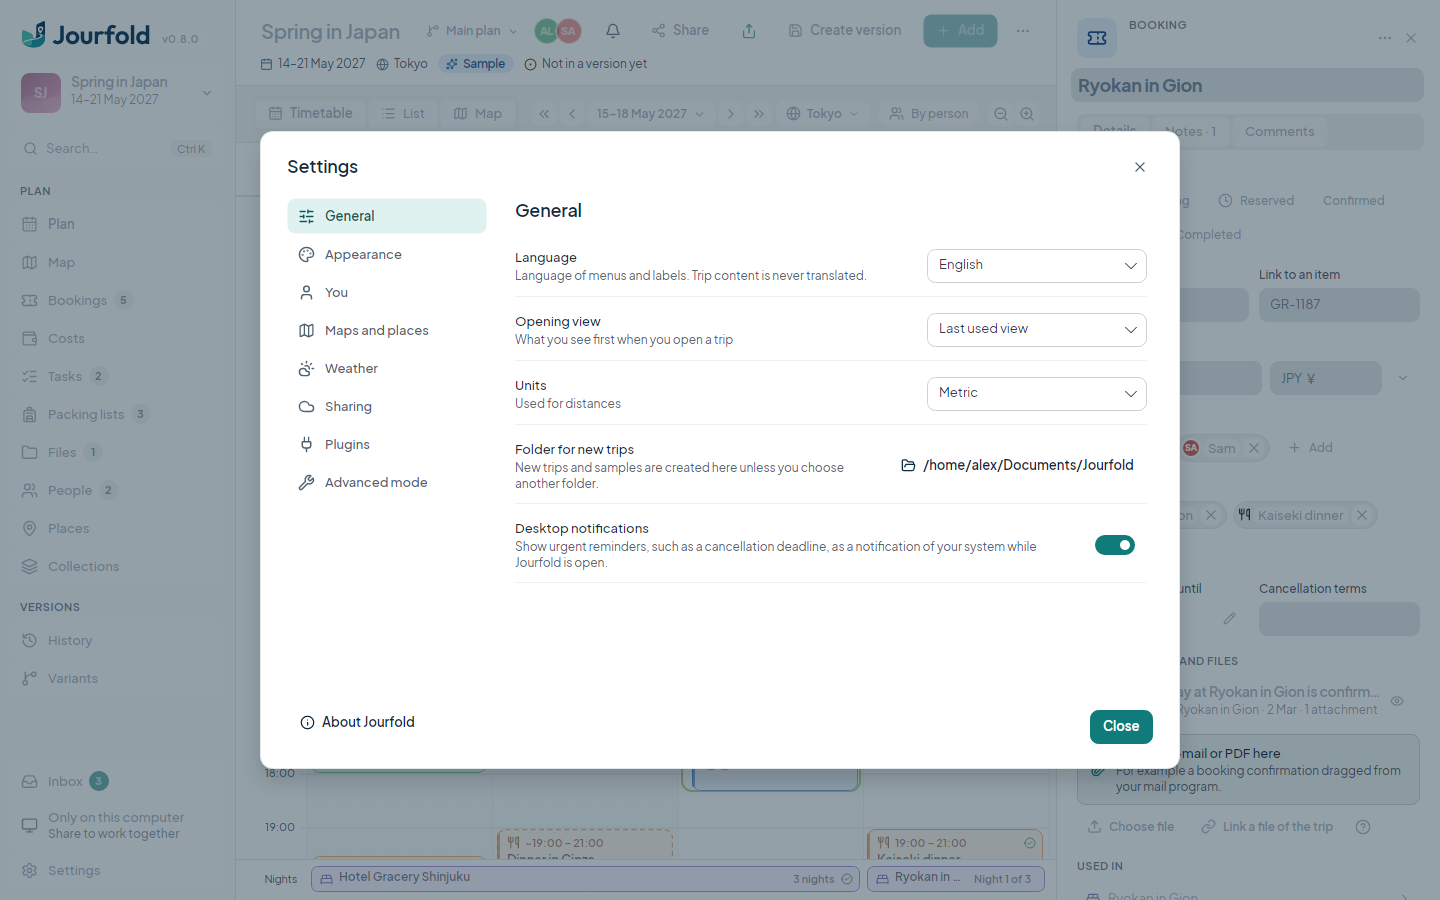
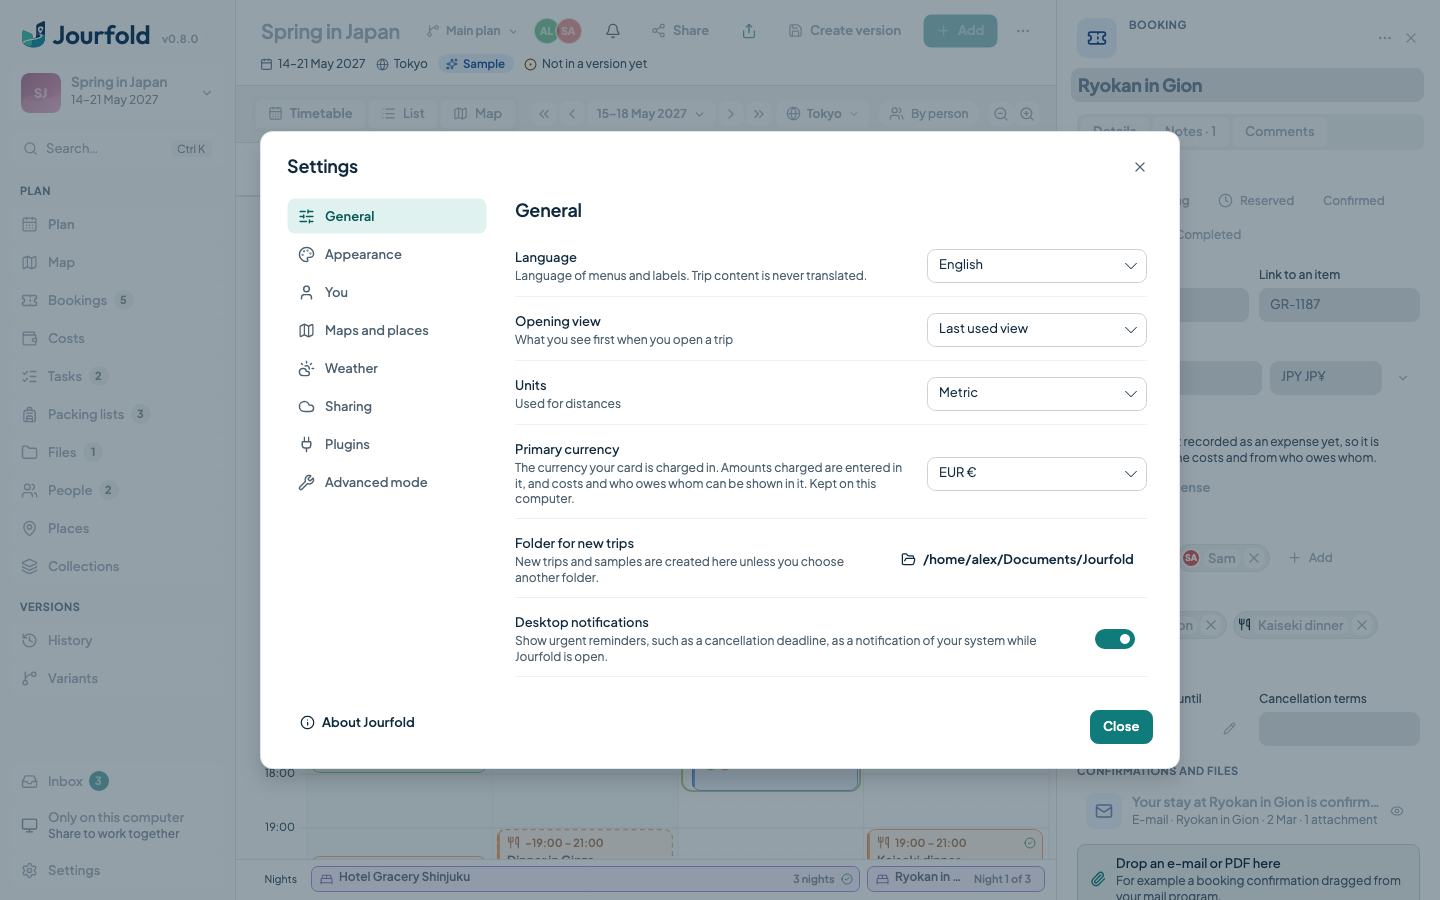
Primary currency in Settings, and budgets for a category, person or collection
Settings, General, choose the primary currency: the one the cards are
charged in, used for amounts charged and for costs and who owes whom.
It is the same setting as the chooser on the Costs page.

A budget's details set what it covers: the whole trip, a category, a
person's part or a collection. The Costs page lists every budget with
what is spent, still estimated and left, in the budget's currency, and
names amounts that could not be converted. The settings screenshot is
refreshed.

diff --git a/src/Jourfold.Desktop/Views/ExpenseViews.cs b/src/Jourfold.Desktop/Views/ExpenseViews.cs
@@ -370,6 +370,90 @@ public static class ExpenseViews
         return Ui.Card(Ui.V(12, heading, list), 18);
     }
 
+    private static readonly (string Scope, string Icon)[] BudgetScopes = [(Budgets.Trip, "luggage"), (Budgets.Category, "tag"), (Budgets.Participant, "user"), (Budgets.Collection, "layers")];
+
+    /// <summary>What a budget covers, in words, such as "Category · Food" or "Person · Ana".</summary>
+    public static string BudgetFor(Localization s, TripSnapshot trip, BudgetStatus status) => status.Scope switch
+    {
+        Budgets.Trip => s["BudgetWholeTrip"],
+        Budgets.Category => s["category"] + " · " + (status.Target is { } c ? CategoryName(s, c) : s["BudgetChooseTarget"]),
+        _ => s[status.Scope] + " · " + (Guid.TryParse(status.Target, out var id) && trip.Find(id) is { } e ? e.Title : s["BudgetChooseTarget"])
+    };
+
+    /// <summary>
+    /// What a budget covers, as chips: the whole trip, a category, a person or a collection, and then which one.
+    /// </summary>
+    public static Control BudgetScopeEditor(MainWindow w, Entity budget)
+    {
+        var m = w.Model; var s = m.Strings; var trip = m.Trip!;
+        var scope = Budgets.ScopeOf(budget); var target = Budgets.TargetOf(budget);
+        var scopes = new WrapPanel { ItemSpacing = 6, LineSpacing = 6 };
+        foreach (var (option, icon) in BudgetScopes)
+        {
+            var chip = Ui.Choice(s[option], icon, option == scope, "chip");
+            chip.Click += (_, _) => { if (option != scope) _ = m.SetBudgetScopeAsync(budget.Id, option); };
+            scopes.Children.Add(chip);
+        }
+        AutomationProperties.SetName(scopes, s["BudgetScope"]);
+        var panel = Ui.V(8, scopes);
+        IEnumerable<(string Id, string Label, string Icon)> targets = scope switch
+        {
+            Budgets.Category => ExpenseCategories.Standard.Concat(ExpenseCategories.Custom(trip)).Select(c => (c, CategoryName(s, c), CategoryIcon(c))),
+            Budgets.Participant => TripPeople.Travelers(trip).Select(p => (p.Id.ToString(), p.Title, "user")),
+            Budgets.Collection => trip.Entities.Values.Where(e => e.Type == "collection" && !PackingLists.IsList(e)).OrderBy(e => e.Title, StringComparer.CurrentCulture).Select(c => (c.Id.ToString(), c.Title, "layers")),
+            _ => []
+        };
+        var choices = new WrapPanel { ItemSpacing = 6, LineSpacing = 6 };
+        foreach (var (id, label, icon) in targets)
+        {
+            var chip = Ui.Choice(label, icon, string.Equals(id, target, StringComparison.CurrentCultureIgnoreCase), "chip");
+            chip.Click += (_, _) => _ = m.SetBudgetScopeAsync(budget.Id, scope, id);
+            choices.Children.Add(chip);
+        }
+        if (choices.Children.Count > 0) { AutomationProperties.SetName(choices, s["BudgetTarget"]); panel.Children.Add(choices); }
+        else if (scope == Budgets.Collection) panel.Children.Add(Notice("info", "Text.Subtle", s["BudgetNoCollections"]));
+        if (Budgets.Status(trip, budget, m.EstimateRates) is { } status) panel.Children.Add(BudgetLine(s, trip, status, 300));
+        return panel;
+    }
+
+    /// <summary>One budget: what it covers, a bar, and what is spent, planned and left, said in words.</summary>
+    private static Control BudgetLine(Localization s, TripSnapshot trip, BudgetStatus b, double? barWidth = null)
+    {
+        var currency = b.Amount.Currency;
+        string Money(decimal x) => (b.Approximate ? "≈ " : "") + Formats.Money(x, currency);
+        var ratio = b.Amount.Amount <= 0 ? 1 : (double)Math.Min(1m, b.Used / b.Amount.Amount);
+        var over = b.Left < 0;
+        var bar = new Grid { ColumnDefinitions = new ColumnDefinitions($"{ratio.ToString(System.Globalization.CultureInfo.InvariantCulture)}*,{(1 - ratio).ToString(System.Globalization.CultureInfo.InvariantCulture)}*"), Height = 8 };
+        if (barWidth is { } width) { bar.Width = width; bar.HorizontalAlignment = HorizontalAlignment.Left; }
+        bar.Children.Add(new Border { CornerRadius = new CornerRadius(4) }.Res(Border.BackgroundProperty, "Bg.Muted").Col(0, 2));
+        bar.Children.Add(new Border { CornerRadius = new CornerRadius(4) }.Res(Border.BackgroundProperty, over ? "Danger" : ratio > 0.85 ? "Warning" : "Accent"));
+        AutomationProperties.SetName(bar, string.Format(s["BudgetUsed"], Money(b.Used), Formats.Money(b.Amount.Amount, currency)));
+        var line = Ui.V(4, bar, Ui.H(5, Ui.Icon(over ? "triangle-alert" : "circle-check", 13, over ? "Danger" : "Success"),
+            Ui.Text(string.Format(s["BudgetUsed"], Money(b.Used), Formats.Money(b.Amount.Amount, currency)) + " · " + (over ? string.Format(s["BudgetOver"], Money(-b.Left)) : string.Format(s["BudgetLeft"], Money(b.Left))), "caption")));
+        if (b.Planned > 0) line.Children.Add(Ui.Text(string.Format(s["BudgetPlanned"], Money(b.Planned)), "caption"));
+        if (b.NotIncluded.Count > 0) line.Children.Add(Notice("info", "Text.Subtle", string.Format(s["BudgetNotIncluded"], string.Join(" + ", b.NotIncluded.Select(x => Formats.Money(x.Amount, x.Currency))))));
+        return line;
+    }
+
+    /// <summary>On the Costs page: every budget with what it covers and where it stands. Null without budgets.</summary>
+    public static Control? BudgetsCard(MainWindow w)
+    {
+        var m = w.Model; var s = m.Strings; var trip = m.Trip!;
+        var budgets = Budgets.All(trip, m.EstimateRates);
+        if (budgets.Count == 0) return null;
+        var rows = Ui.V(14);
+        foreach (var b in budgets)
+        {
+            var open = new Button { Content = Ui.Columns("Auto,*", Ui.Icon(BudgetScopes.First(x => x.Scope == b.Scope).Icon, 14, "Text.Muted").Margin(0, 2, 8, 0).Also(i => i.VerticalAlignment = VerticalAlignment.Top), Ui.V(1, Ui.Line(b.Budget.Title, "strong"), Ui.Line(BudgetFor(s, trip, b), "caption"))) }.Classed("row");
+            AutomationProperties.SetName(open, b.Budget.Title);
+            var budget = b.Budget; open.Click += (_, _) => m.Follow(budget);
+            rows.Children.Add(Ui.V(6, open, BudgetLine(s, trip, b).Margin(8, 0)));
+        }
+        var body = Ui.V(12, Ui.Text(s["Budgets"], "h3"), rows);
+        if (budgets.Any(b => b.Approximate)) body.Children.Add(Notice("info", "Text.Subtle", s["EstimatedWithRates"]));
+        return Ui.Card(body, 18);
+    }
+
     private static Control Notice(string icon, string brush, string text) =>
         Ui.Columns("Auto,*", Ui.Icon(icon, 13, brush).Margin(0, 2, 6, 0).Also(i => i.VerticalAlignment = VerticalAlignment.Top), Ui.Text(text, "caption").Also(t => t.TextWrapping = TextWrapping.Wrap));
 }

diff --git a/tests/Jourfold.Tests/ExpenseSplitTests.cs b/tests/Jourfold.Tests/ExpenseSplitTests.cs
@@ -265,6 +265,60 @@ public sealed class ExpenseSplitTests : IDisposable
         finally { w.Close(); }
     }
 
+    [AvaloniaTheory]
+    [InlineData("en", "Primary currency")]
+    [InlineData("de", "Primäre Währung")]
+    public async Task ThePrimaryCurrencyIsChosenInSettings(string language, string label)
+    {
+        var w = await Window(language, "Light"); var m = w.Model;
+        try
+        {
+            m.HomeCurrency = "EUR";
+            var settings = ((Dialogs)m.Interaction).SettingsAsync(m); Probe.Layout();
+            var sheet = Probe.Sheet(w);
+            Assert.Contains(label, Texts(sheet));
+            // The only currency choice on the General page; choosing a currency there is the primary currency at once.
+            var primary = Probe.All<ComboBox>(sheet).Single(c => AutomationProperties.GetName(c) == label);
+            primary.SelectedItem = Editors.Currencies.Single(c => c.Id == "CHF"); Probe.Layout();
+            Assert.Equal("CHF", m.HomeCurrency);
+            Assert.Equal("CHF", m.SettleCurrency);
+        }
+        finally { w.Close(); }
+    }
+
+    [AvaloniaTheory]
+    [InlineData("en", "Category", "Food", "Eating out", "of", "left")]
+    [InlineData("de", "Kategorie", "Essen", "Eating out", "von", "übrig")]
+    public async Task ABudgetCoversACategoryAndShowsWhatIsLeft(string language, string category, string food, string title, string of, string left)
+    {
+        var w = await Window(language, "Light"); var m = w.Model;
+        try
+        {
+            var dinner = m.Trip!.Entities.Values.Single(e => e.Title == "Dinner at the lake");
+            await m.ChangeExpenseAsync(dinner.Id, (t, e) => ExpenseCategories.With(t, e, "food"));
+            var budget = Entity.Create("budget", title); budget.Data["amount"] = new System.Text.Json.Nodes.JsonObject { ["value"] = "150.00", ["currency"] = "EUR" };
+            await m.Workspace!.EditAsync(budget);
+            m.Navigate("Costs"); m.Selected = m.Trip!.Find(budget.Id); Probe.ShowDetails(w);
+            var inspector = w.FindControl<Control>("InspectorHost")!;
+            await Probe.Until(() => Probe.All<ChoiceButton>(inspector).Any(c => AutomationProperties.GetName(c) == category));
+            Probe.All<ChoiceButton>(inspector).Single(c => AutomationProperties.GetName(c) == category).RaiseEvent(new Avalonia.Interactivity.RoutedEventArgs(Button.ClickEvent));
+            await Probe.Until(() => Budgets.ScopeOf(m.Trip!.Find(budget.Id)!) == Budgets.Category);
+            Probe.ShowDetails(w);
+            await Probe.Until(() => Probe.All<ChoiceButton>(inspector).Any(c => AutomationProperties.GetName(c) == food));
+            Probe.All<ChoiceButton>(inspector).Single(c => AutomationProperties.GetName(c) == food).RaiseEvent(new Avalonia.Interactivity.RoutedEventArgs(Button.ClickEvent));
+            await Probe.Until(() => Budgets.TargetOf(m.Trip!.Find(budget.Id)!) == "food");
+            var status = Budgets.Status(m.Trip!, m.Trip!.Find(budget.Id)!)!;
+            Assert.Equal((90m, 60m), (status.Spent, status.Left));
+            // The whole trip's EUR budget is not this one.
+            Assert.Equal(0m, TripSummaries.Costs(m.Trip!).Single(c => c.Currency == "EUR").Budget);
+            m.Navigate("Plan"); m.Navigate("Costs");
+            var texts = Texts(w).ToArray();
+            Assert.Contains(texts, t => t.Contains(" " + of + " ", StringComparison.Ordinal) && t.Contains(left, StringComparison.Ordinal) && t.Contains("150", StringComparison.Ordinal));
+            Assert.Contains(Probe.All<Button>(w), b => AutomationProperties.GetName(b) == title);
+        }
+        finally { w.Close(); }
+    }
+
     private async Task<MainWindow> Window(string language, string theme)
     {
         var (path, p) = await Trip();

diff --git a/src/Jourfold.Desktop/Dialogs/Dialogs.Settings.cs b/src/Jourfold.Desktop/Dialogs/Dialogs.Settings.cs
@@ -114,6 +114,13 @@ public sealed partial class Dialogs
                     Row(s["Language"], s["LanguageHint"], Option("Language", model.Strings.Language, "en", "de"));
                     Row(s["OpenView"], s["OpenViewHint"], Option("OpenView", "Remember", "Remember", "Plan", "Map", "List"));
                     Row(s["Units"], s["UnitsHint"], Option("Units", "Metric", "Metric", "Imperial"));
+                    // The same setting as the chooser in the Costs page's total; it belongs to the person and their card, not to a trip.
+                    // A drop-down like the other settings; typing the code's first letters picks it with the keyboard.
+                    var currencies = Editors.Currencies.ToArray();
+                    var primary = new ComboBox { ItemsSource = currencies, SelectedItem = currencies.FirstOrDefault(c => c.Id == model.HomeCurrency), Width = 220, Tag = "HomeCurrency", MaxDropDownHeight = 320 };
+                    AutomationProperties.SetName(primary, s["HomeCurrency"]);
+                    primary.SelectionChanged += (_, _) => { if (primary.SelectedItem is Choice c && c.Id != model.HomeCurrency) model.HomeCurrency = c.Id; };
+                    Row(s["HomeCurrency"], s["HomeCurrencyHint"], primary);
                     var folder = Ui.Button(model.DefaultTripsFolder, "folder-open", "ghost"); folder.MaxWidth = 280; folder.Click += async (_, _) => { if (await FolderAsync(s["TripsFolder"]) is { } chosen) { model.Store.Set("trips.folder", chosen); Render(); } };
                     Row(s["TripsFolder"], s["TripsFolderHint"], folder);
                     Row(s["DesktopNotifications"], s["DesktopNotificationsHint"], Toggle(model.DesktopNotificationsEnabled, model.SetDesktopNotifications, s["DesktopNotifications"]));

diff --git a/src/Jourfold.Desktop/MainViewModel.Costs.cs b/src/Jourfold.Desktop/MainViewModel.Costs.cs
@@ -125,6 +125,14 @@ public partial class MainViewModel
         await Workspace.ApplyAsync(Expenses.SettleAll(Workspace.State.Trip, Today).Select(e => new TravelRepo.Repository.EntityEdit(e.Id, e)).ToArray());
     });
 
+    /// <summary>Sets what a budget covers: the whole trip, a category, a person's id or a collection's id, as an undoable step.</summary>
+    public Task SetBudgetScopeAsync(Guid budgetId, string scope, string? target = null) => RunEditAsync(async () =>
+    {
+        if (Workspace?.State.Trip is not { } trip || trip.Find(budgetId) is not { Type: "budget" } budget) return;
+        var changed = Budgets.WithScope(trip, budget, scope, target);
+        if (!System.Text.Json.Nodes.JsonNode.DeepEquals(changed.Data, budget.Data)) await Workspace.EditAsync(changed);
+    });
+
     /// <summary>Applies one of TravelRepo's expense edits to the saved expense as an undoable step.</summary>
     public Task ChangeExpenseAsync(Guid id, Func<TripSnapshot, Entity, Entity> change) => EditExpenseAsync(id, change);
 

diff --git a/src/Jourfold.Desktop/Views/InspectorView.cs b/src/Jourfold.Desktop/Views/InspectorView.cs
@@ -214,7 +214,7 @@ public static class InspectorView
                     Add(body, s["Files"], Confirmations(w, e));
                     if (ExpenseViews.Charged(w, e) is { } charged) body.Children.Add(Field(s["Charged"], charged));
                 }
-                else body.Children.Add(Field(s["BudgetScope"], Editors.Choice(w, e.Id, "scope", s["BudgetScope"], e.Data["scope"]?.ToString(), ["trip", "category", "participant", "collection"])));
+                else body.Children.Add(Field(s["BudgetScope"], ExpenseViews.BudgetScopeEditor(w, e)));
                 break;
             case "person": PersonDetails(w, e, body); break;
             case "collection": body.Children.Add(Field(s["Items"], Editors.References(w, e.Id, "items", s["Items"], null))); break;

diff --git a/src/Jourfold.Desktop/Views/CollectionViews.cs b/src/Jourfold.Desktop/Views/CollectionViews.cs
@@ -119,7 +119,7 @@ public static class CollectionViews
             list.Children.Add(Row(w, e, grid));
         }
         var note = Ui.H(6, Ui.Icon("info", 13, "Text.Subtle"), Ui.Text(s["NoAutoConversion"], "caption"));
-        return Page(w, s["Costs"], s["CostsHint"], Ui.V(20, tiles, ExpenseViews.WhoOwesWhom(w), ExpenseViews.MissingExpenses(w), ExpenseViews.ByCategory(w), ConverterCard(w), Ui.Card(list, 6), note), actions);
+        return Page(w, s["Costs"], s["CostsHint"], Ui.V(20, tiles, ExpenseViews.WhoOwesWhom(w), ExpenseViews.MissingExpenses(w), ExpenseViews.BudgetsCard(w), ExpenseViews.ByCategory(w), ConverterCard(w), Ui.Card(list, 6), note), actions);
     }
 
     /// <summary>

diff --git a/docs/user-guide.md b/docs/user-guide.md
@@ -69,7 +69,7 @@ The bell next to the people in the header counts reminders: free cancellation de
 
 ## Bookings, costs, tasks and files
 
-**Bookings** lists reservations with their reference (click the copy icon), price, travellers and status. Bookings and plans have a **Confirmations and files** section: drag a confirmation e-mail or PDF onto it, or choose a file. Thunderbird, eM Client and Apple Mail let you drag an e-mail directly; Gmail and Outlook on the web download it as an `.eml` file first, and classic Outlook can print it to PDF. The help button next to the area explains each. Click a confirmation to open it in Jourfold's document window, which stays open beside the plan. It shows PDFs page by page with zoom and search (Ctrl+F), and e-mails with sender, date, attachments and the message in its original layout; **Text** shows the plain text instead, and Jourfold remembers your choice. An attachment can be opened there or added to the trip next to the e-mail. Scripts, forms and frames in an e-mail are removed, and images from the internet are only loaded when you choose **Load images** for that e-mail, because loading them tells the sender that you opened it. Links ask before they open and show where they really go. An e-mail laid out wider than the window is shrunk to fit. **Costs** totals expenses per currency and compares them with budgets. Amounts stay in their own currency. An expense is divided equally among all travellers unless you change its **Split**, right when you add it or later in the details: equally among some people, by amounts, by shares (such as 2 for a couple) or by percent. If the parts do not add up, the details say how much is left and the list shows **Check split**. **Paying back** in the details lists who owes whom for that expense; tick a line once it is paid back. **Who owes whom** on the Costs page shows each person's balance per currency and the fewest payments that settle everything. **Pay back…** opens the pay function: choose a person and the open items to settle now, see what that comes to after what two people owe each other is set off, and mark them as paid in one step. **Mark all as paid** is for when everyone has made the payments shown. Estimates are divided only once they are paid. For a payment in another currency, enter under **Charged** in its details what the card statement shows in your home currency; the rate is kept with it. Costs then also show a total in the home currency (chosen on that card), and **Who owes whom** and **Pay back…** work in it: exactly where a charged amount was entered, otherwise estimated with reference rates if you allowed them, marked with ≈. **Each currency** shows debts in their own currencies instead. Nothing is converted silently. Every expense has a **Category**: transport, accommodation, food, activities, souvenirs, other, or one you create with **New category…**, which both of you then see. Without one, an expense takes it from the plan or booking it belongs to. **By category** on the Costs page shows where the money went. A booking's price only says what it costs and never counts by itself; what was paid counts as expenses that belong to the booking, possibly several, such as a deposit and the rest paid on site. A booking's details compare them with the price: nothing recorded, part recorded with the rest open, all recorded, or more than the price. Bookings marked **No expense** or **Rest open** are also listed on the Costs page, and **Add as expense** or **Add the rest as expense** opens the expense form filled in with the booking's title, what is still open and the currency. The **Currency converter** below the totals works offline with the European Central Bank's reference rates, which Jourfold fetches at most twice a day after you allow it (also under Settings, **Weather**); nothing about the trip is sent. A booking lists the plans it is for; adding or removing one there changes the plan as well. **Tasks** works like a checklist; type a task and press Enter. Packing lists have their own page (see below). **Files** shows attached tickets, PDFs and photos. Drop files anywhere on the window to add them.
+**Bookings** lists reservations with their reference (click the copy icon), price, travellers and status. Bookings and plans have a **Confirmations and files** section: drag a confirmation e-mail or PDF onto it, or choose a file. Thunderbird, eM Client and Apple Mail let you drag an e-mail directly; Gmail and Outlook on the web download it as an `.eml` file first, and classic Outlook can print it to PDF. The help button next to the area explains each. Click a confirmation to open it in Jourfold's document window, which stays open beside the plan. It shows PDFs page by page with zoom and search (Ctrl+F), and e-mails with sender, date, attachments and the message in its original layout; **Text** shows the plain text instead, and Jourfold remembers your choice. An attachment can be opened there or added to the trip next to the e-mail. Scripts, forms and frames in an e-mail are removed, and images from the internet are only loaded when you choose **Load images** for that e-mail, because loading them tells the sender that you opened it. Links ask before they open and show where they really go. An e-mail laid out wider than the window is shrunk to fit. **Costs** totals expenses per currency and compares them with budgets. Amounts stay in their own currency. An expense is divided equally among all travellers unless you change its **Split**, right when you add it or later in the details: equally among some people, by amounts, by shares (such as 2 for a couple) or by percent. If the parts do not add up, the details say how much is left and the list shows **Check split**. **Paying back** in the details lists who owes whom for that expense; tick a line once it is paid back. **Who owes whom** on the Costs page shows each person's balance per currency and the fewest payments that settle everything. **Pay back…** opens the pay function: choose a person and the open items to settle now, see what that comes to after what two people owe each other is set off, and mark them as paid in one step. **Mark all as paid** is for when everyone has made the payments shown. Estimates are divided only once they are paid. For a payment in another currency, enter under **Charged** in its details what the card statement shows in your home currency; the rate is kept with it. Costs then also show a total in your primary currency, which you choose under Settings, **General** (or on that card), and **Who owes whom** and **Pay back…** work in it: exactly where a charged amount was entered, otherwise estimated with reference rates if you allowed them, marked with ≈. **Each currency** shows debts in their own currencies instead. Nothing is converted silently. Every expense has a **Category**: transport, accommodation, food, activities, souvenirs, other, or one you create with **New category…**, which both of you then see. Without one, an expense takes it from the plan or booking it belongs to. **By category** on the Costs page shows where the money went. A **Budget** applies to the whole trip, one category, one person's part or a collection; its details set which, and **Budgets** on the Costs page shows each with what is spent, still estimated and left, converted into the budget's currency like the costs (≈ where estimated with reference rates). A booking's price only says what it costs and never counts by itself; what was paid counts as expenses that belong to the booking, possibly several, such as a deposit and the rest paid on site. A booking's details compare them with the price: nothing recorded, part recorded with the rest open, all recorded, or more than the price. Bookings marked **No expense** or **Rest open** are also listed on the Costs page, and **Add as expense** or **Add the rest as expense** opens the expense form filled in with the booking's title, what is still open and the currency. The **Currency converter** below the totals works offline with the European Central Bank's reference rates, which Jourfold fetches at most twice a day after you allow it (also under Settings, **Weather**); nothing about the trip is sent. A booking lists the plans it is for; adding or removing one there changes the plan as well. **Tasks** works like a checklist; type a task and press Enter. Packing lists have their own page (see below). **Files** shows attached tickets, PDFs and photos. Drop files anywhere on the window to add them.
 
 ### Packing lists
 
